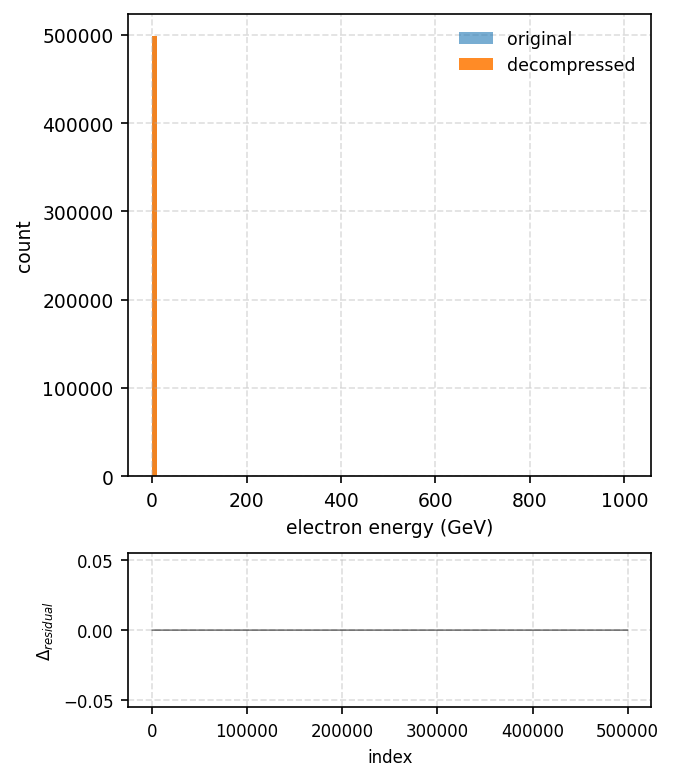
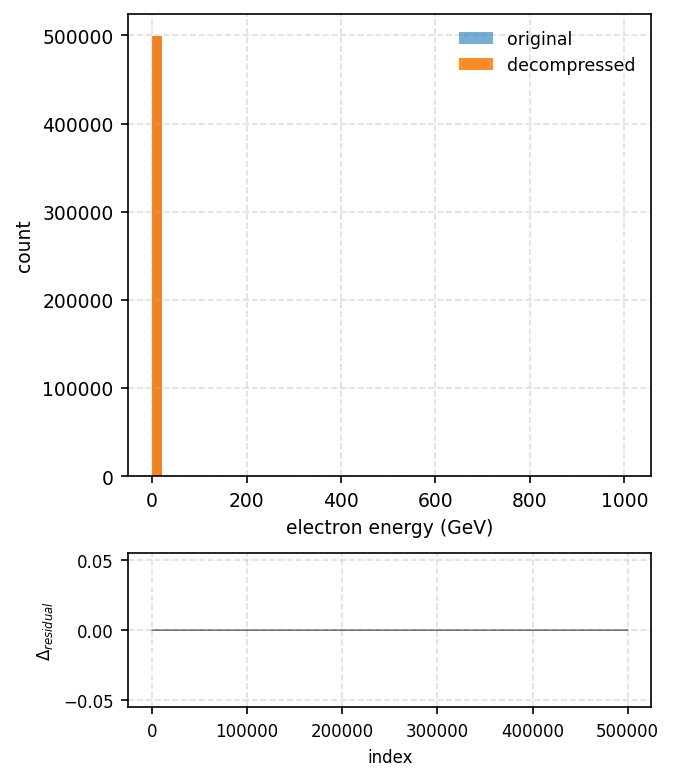
fix plots

Changed region(s): [[0.2181, 0.0307, 0.2493, 0.6146], [0.0623, 0.0307, 0.1558, 0.0615]]

diff --git a/experiments/cms_experiment/plotting.py b/experiments/cms_experiment/plotting.py
@@ -48,7 +48,7 @@ def reshape_to_records(arr: np.ndarray, ncols: int):
 
 def plot_columns(orig_rec, decomp_rec, names, out_dir: Path, nrows_to_plot=200,
                  alpha_orig=0.6, alpha_decomp=0.9,
-                 create_hist=True, bins=50, hist_log=False):
+                 create_hist=True, bins=20, hist_log=False):
     out_dir.mkdir(parents=True, exist_ok=True)
     ncols = orig_rec.shape[1]
     # limit rows
@@ -181,7 +181,7 @@ def main():
     p.add_argument("--alpha-original", type=float, default=0.6, help="Alpha/transparency for original histogram (default: 0.6)")
     p.add_argument("--alpha-decompressed", type=float, default=0.9, help="Alpha/transparency for decompressed histogram (default: 0.9)")
     # histogram options
-    p.add_argument("--bins", type=int, default=100, help="Number of bins for histograms (default: 100)")
+    p.add_argument("--bins", type=int, default=50, help="Number of bins for histograms (default: 100)")
     p.add_argument("--no-hist", dest='hist', action='store_false', help="Do not create histogram plots")
     p.add_argument("--hist-log", dest='hist_log', action='store_true', help="Use log scale for histogram counts")
     p.add_argument("--style", choices=["none", "atlas", "hep", "cms", "mplhep"], default="hep",
